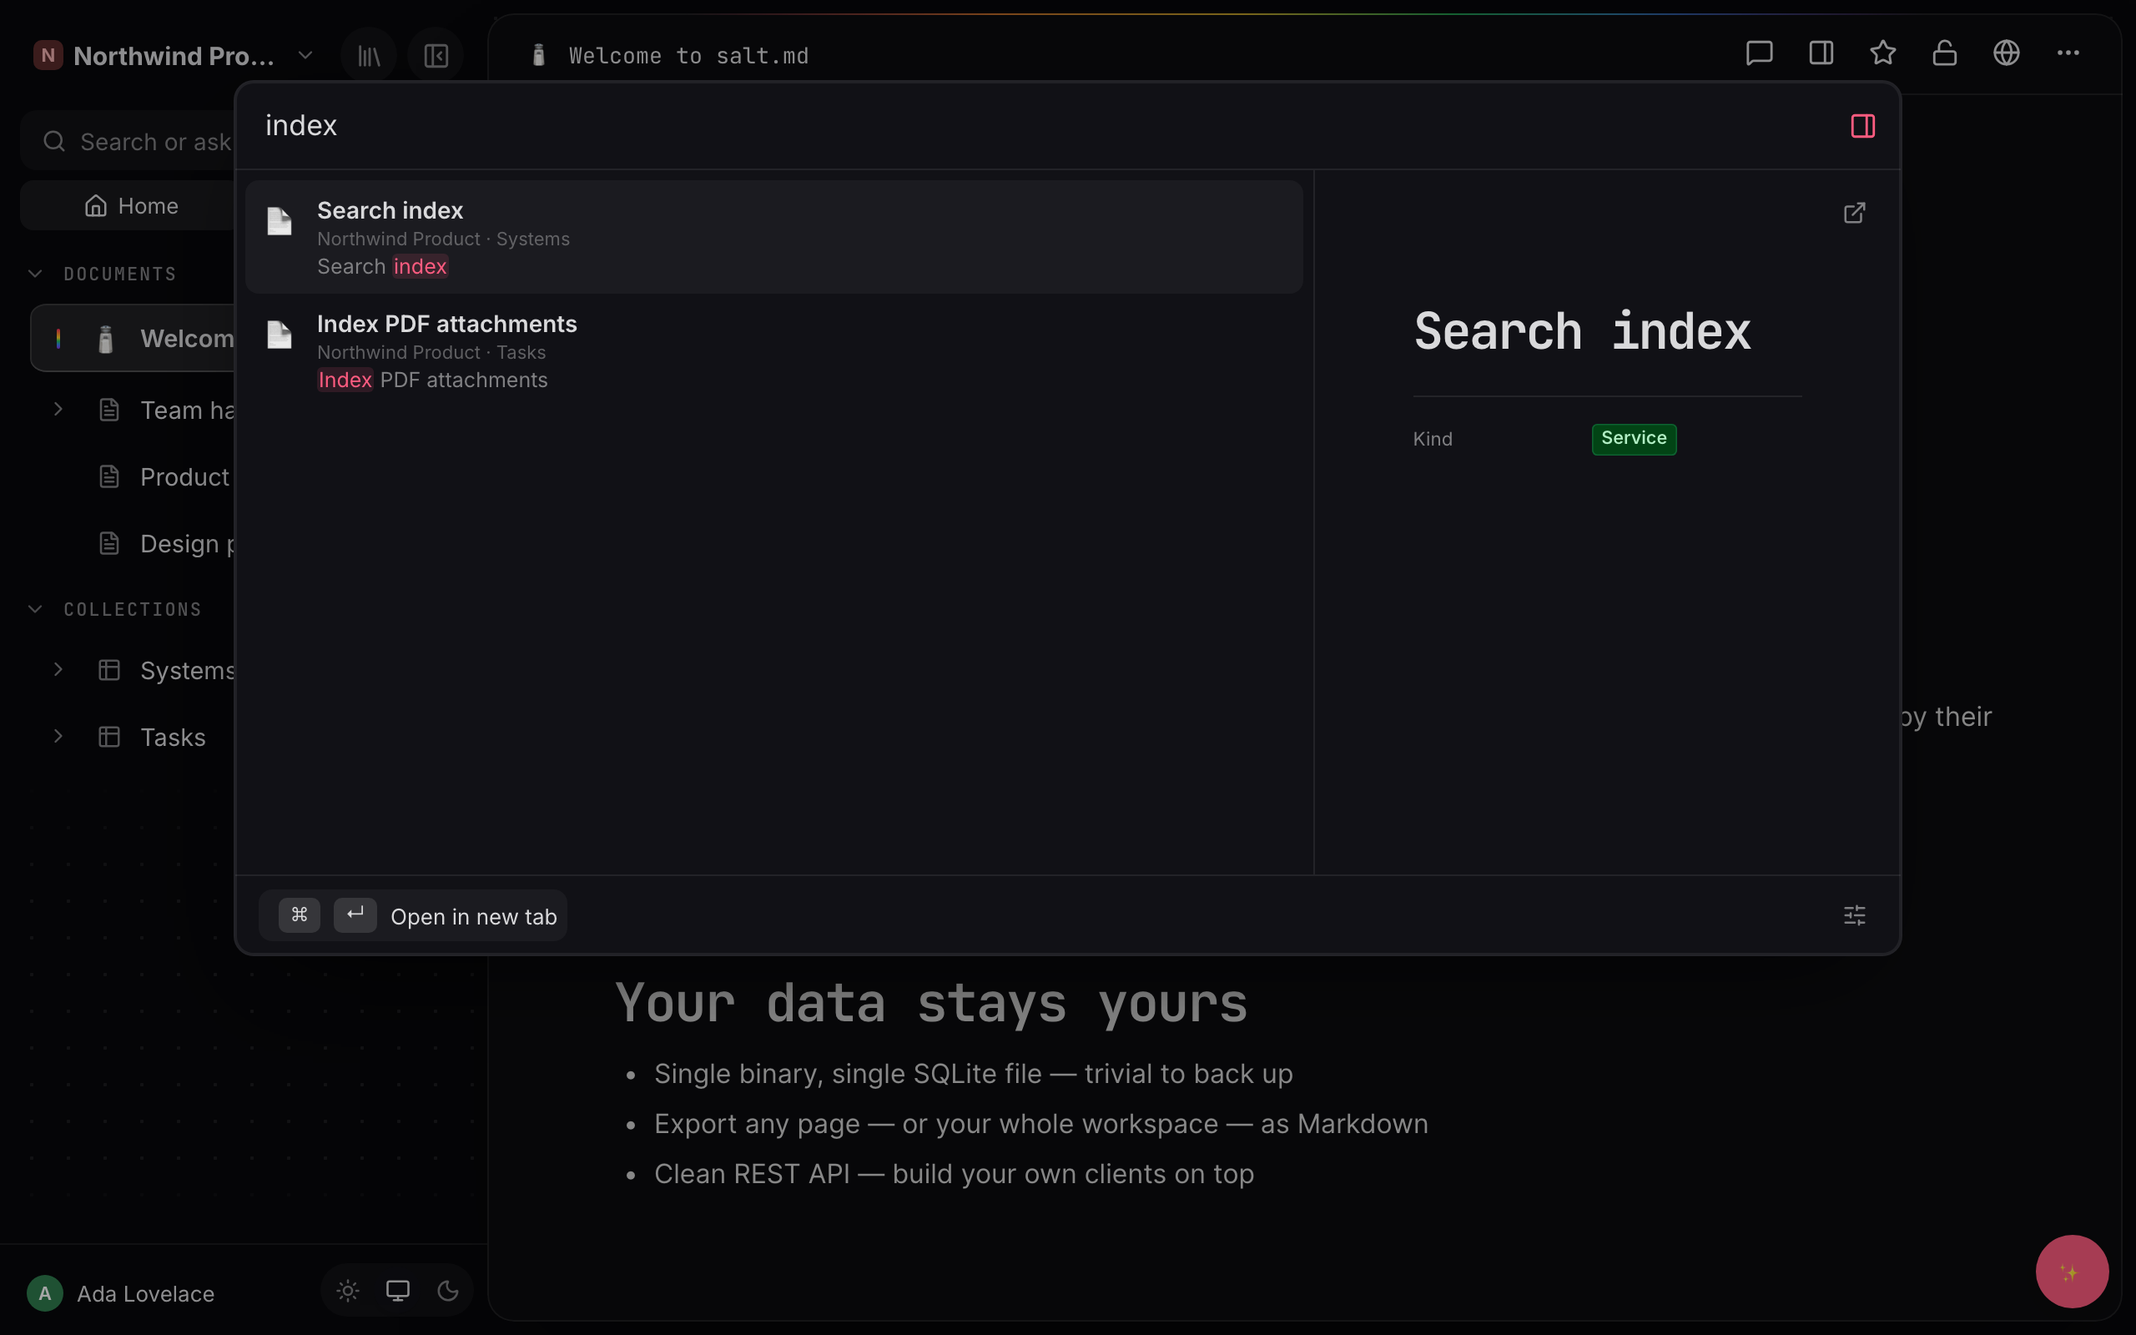
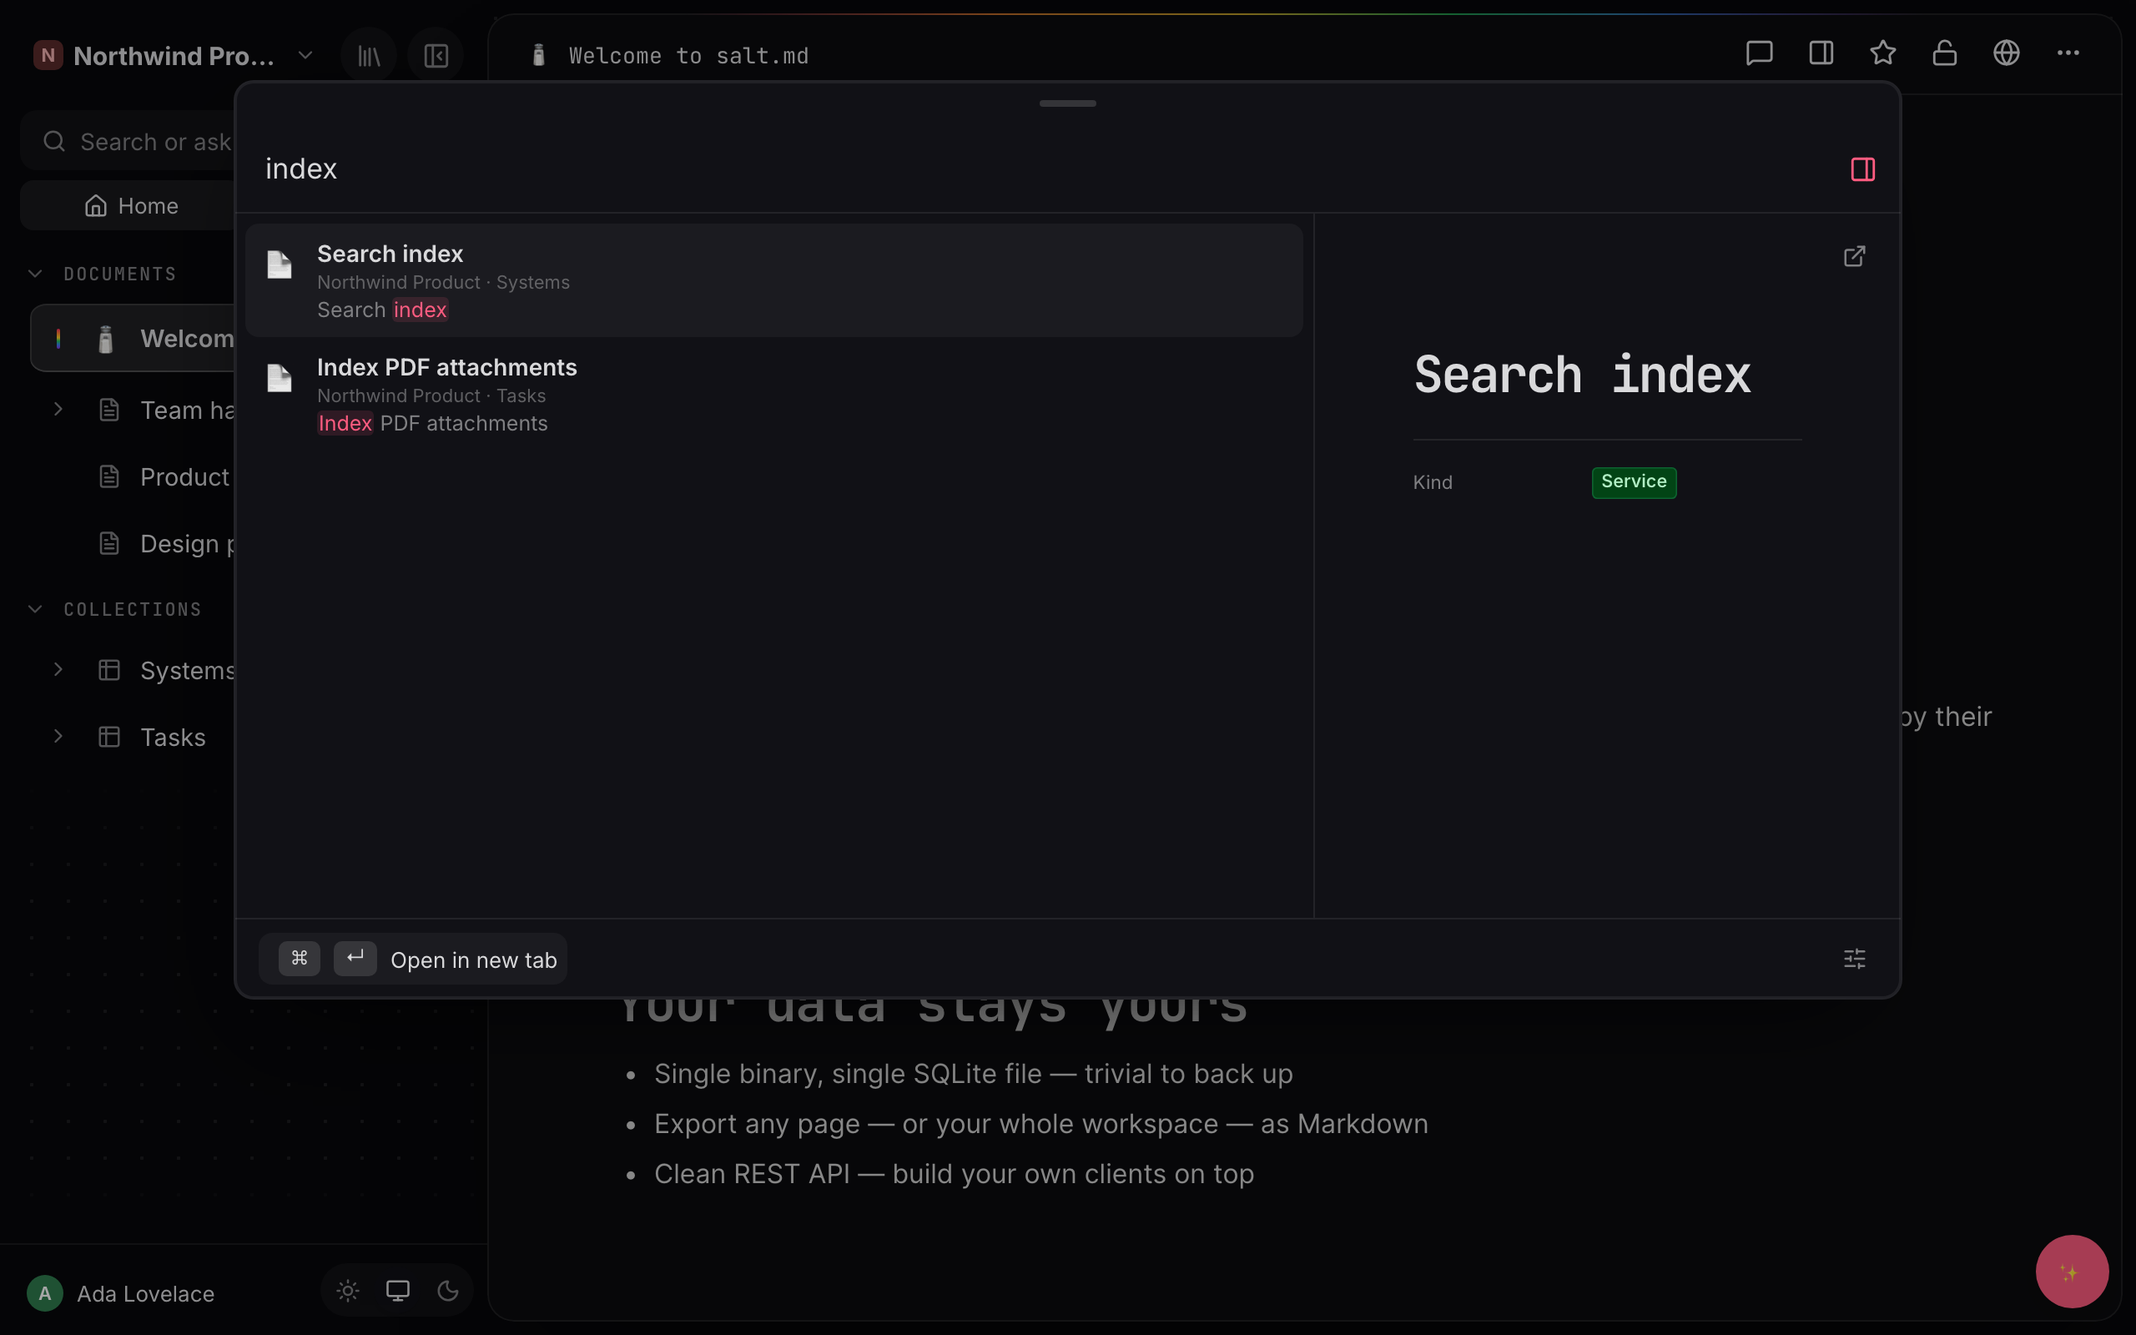
Mobile: sheets close with a swipe down from their handle
Every sheet in the app had a grab bar that did nothing: the one gesture
people try on a phone was the one that did not work, and the only way out was
a small × in a corner.

The drag lives on the handle and nowhere else, on purpose. The browser decides
whether a touch is a scroll or mine before the first pointermove, and
`touch-action` has to be set before the finger lands — taking the drag from
anywhere inside the sheet would mean either cancelling the list's scrolling or
losing the gesture halfway. The handle is the strip that belongs to the sheet
by definition: no scroller under it, no button on it, and it already drew the
bar that invites the drag.

A quarter of the sheet or a flick closes it; anything less springs back. The
sheet translates by its own height plus a margin, so it leaves the screen
rather than fading while still covering the page. The AI panel is hidden
instead of unmounted, so the inline transform is cleared after the close or
the next open would start off-screen.

One component (`SheetGrab`) and one function (`installSheetDrag`) are used by
the tabs sheet, search, the page's ⋯/share/access sheets, the search row menu
and the AI panel, so threshold and feel cannot drift apart between them. The
mobile test drags the tabs handle both ways: 40px stays open, 280px closes.

diff --git a/web/src/sheetSwipe.ts b/web/src/sheetSwipe.ts
@@ -1,0 +1,99 @@
+/** Drag a bottom sheet down to close it, from its grab handle.
+ *
+ *  A sheet on a phone that can only be closed by hitting a small × is the one
+ *  gesture people try first and nothing happens: every iOS and Android sheet
+ *  they have ever used slides away under the finger. This is that gesture.
+ *
+ *  It is deliberately limited to the handle. Taking the drag from anywhere
+ *  inside the sheet would fight the list it contains — the browser has decided
+ *  by the time the pointer moves whether the touch is a scroll or ours, and
+ *  `touch-action` has to be set before the finger lands. The handle is the one
+ *  strip that is ours by definition: no scroller, no buttons, and it already
+ *  draws the bar that invites the gesture.
+ *
+ *  Closing is a translate to the sheet's own height plus a margin, so a sheet
+ *  leaves the screen completely rather than fading while still covering the
+ *  page underneath. */
+export function installSheetDrag(
+  handle: HTMLElement,
+  sheet: HTMLElement,
+  onDismiss: () => void,
+): () => void {
+  let startY = 0;
+  let startTime = 0;
+  let offset = 0;
+  let dragging = false;
+  let closing = false;
+
+  const settle = (transition: string) => {
+    sheet.style.transition = transition;
+    sheet.style.transform = '';
+  };
+
+  const onDown = (e: PointerEvent) => {
+    if (closing || e.button !== 0) return;
+    dragging = true;
+    offset = 0;
+    startY = e.clientY;
+    startTime = performance.now();
+    sheet.style.transition = 'none';
+    handle.setPointerCapture?.(e.pointerId);
+  };
+
+  const onMove = (e: PointerEvent) => {
+    if (!dragging) return;
+    // Upward drags do nothing: a sheet grows upward only by opening further,
+    // and pretending otherwise makes the handle feel disconnected.
+    offset = Math.max(0, e.clientY - startY);
+    sheet.style.transform = `translateY(${offset}px)`;
+  };
+
+  const onUp = (e: PointerEvent) => {
+    if (!dragging) return;
+    dragging = false;
+    handle.releasePointerCapture?.(e.pointerId);
+    const height = sheet.getBoundingClientRect().height;
+    const velocity = offset / Math.max(1, performance.now() - startTime);
+    // A quarter of the sheet, or a flick: the two ways people mean "close".
+    const shouldClose = offset > Math.max(72, height * 0.25) || (offset > 24 && velocity > 0.55);
+    if (shouldClose) {
+      closing = true;
+      sheet.style.transition = 'transform 180ms ease-in';
+      sheet.style.transform = `translateY(${height + 24}px)`;
+      window.setTimeout(() => {
+        onDismiss();
+        // The AI panel is hidden rather than unmounted, so its inline transform
+        // would survive the close and put it off-screen on the next open.
+        requestAnimationFrame(() => {
+          sheet.style.transition = '';
+          sheet.style.transform = '';
+        });
+      }, 170);
+      return;
+    }
+    settle('transform 200ms cubic-bezier(0.16, 1, 0.3, 1)');
+    window.setTimeout(() => {
+      if (!dragging) sheet.style.transition = '';
+    }, 220);
+  };
+
+  const onCancel = () => {
+    if (!dragging) return;
+    dragging = false;
+    settle('transform 160ms ease-out');
+    window.setTimeout(() => {
+      if (!dragging) sheet.style.transition = '';
+    }, 180);
+  };
+
+  handle.addEventListener('pointerdown', onDown);
+  handle.addEventListener('pointermove', onMove);
+  handle.addEventListener('pointerup', onUp);
+  handle.addEventListener('pointercancel', onCancel);
+  return () => {
+    handle.removeEventListener('pointerdown', onDown);
+    handle.removeEventListener('pointermove', onMove);
+    handle.removeEventListener('pointerup', onUp);
+    handle.removeEventListener('pointercancel', onCancel);
+  };
+}

diff --git a/web/src/mobile.css b/web/src/mobile.css
@@ -154,14 +154,30 @@
   }
 }
 
-/* The bar every phone sheet has, for the only gesture people try on one. */
+/* The bar every phone sheet has, and the handle the drag starts from: a 26px
+   strip with the bar drawn inside it, `touch-action: none` so the browser
+   gives the gesture to us instead of rubber-banding the page. */
 .sheet-grab {
+  display: flex;
+  align-items: center;
+  justify-content: center;
+  height: 26px;
+  flex: none;
+  touch-action: none;
+  cursor: grab;
+}
+
+.sheet-grab > span {
   width: 34px;
   height: 4px;
-  margin: 6px auto 8px;
   border-radius: 2px;
   background: var(--border-strong);
-  flex: none;
+  pointer-events: none;
+}
+
+/* A sheet being dragged must not animate its own transition. */
+.sheet-drag:active {
+  cursor: grabbing;
 }
 
 .tabs-sheet-head {
@@ -483,16 +499,6 @@
     box-shadow: 0 -24px 48px -28px rgba(0, 0, 0, 0.5);
   }
 
-  .search-row-menu::before {
-    content: '';
-    flex: none;
-    width: 34px;
-    height: 4px;
-    margin: 6px auto 8px;
-    border-radius: 2px;
-    background: var(--border-strong);
-  }
-
   .search-row-backdrop {
     background: rgba(0, 0, 0, 0.38);
   }
@@ -620,20 +626,6 @@
     z-index: 320;
   }
 
-  /* The grab bar, drawn rather than an element: these menus are written in six
-     places and none of them should have to remember it. */
-  .overflow-menu::before,
-  .share-menu::before,
-  .access-menu::before {
-    content: '';
-    display: block;
-    width: 34px;
-    height: 4px;
-    margin: 6px auto 10px;
-    border-radius: 2px;
-    background: var(--border-strong);
-  }
-
   .overflow-menu button,
   .share-menu button,
   .access-menu button {
@@ -680,17 +672,6 @@
     display: flex;
     flex-direction: column;
     overflow: hidden;
-  }
-
-  /* The grab bar every other phone sheet in the app has. */
-  .search-modal::before {
-    content: '';
-    flex: none;
-    width: 34px;
-    height: 4px;
-    margin: 8px auto 2px;
-    border-radius: 2px;
-    background: var(--border-strong);
   }
 
   .search-modal .search-body {
@@ -873,5 +854,16 @@
      the bar instead of hiding under the thumb. */
   body.mobile-editing .page-body {
     padding-bottom: 64px;
+  }
+}
+
+/* --- handles are a phone thing -------------------------------------------- */
+
+/* The page menus and the AI panel are popovers on a desktop: they hang off a
+   button and have no bottom edge to drag, so no handle either. */
+@media (min-width: 769px) {
+  .menu .sheet-grab,
+  .ai-panel .sheet-grab {
+    display: none;
   }
 }

diff --git a/web/src/components/Editor.tsx b/web/src/components/Editor.tsx
@@ -42,6 +42,7 @@ import PropertyValue from './PropertyValue';
 import { saltSchema } from '../pageLink';
 import AnchoredMenu from './AnchoredMenu';
 import SheetBackdrop from './SheetBackdrop';
+import SheetGrab from './SheetGrab';
 import MobileEditorBar from './MobileEditorBar';
 import AiEmptyLine from './AiEmptyLine';
 import IconPicker from './IconPicker';
@@ -1705,6 +1706,10 @@ function PageHeader({
     return chain;
   }, [pagesById, pageId, page]);
 
+  // The page's ⋯ and share sheets on a phone: their handles drag them away.
+  const shareSheetRef = useRef<HTMLDivElement>(null);
+  const overflowSheetRef = useRef<HTMLDivElement>(null);
+
   const inheritedAccess = useMemo(() => {
     for (let i = 0; i < breadcrumbs.length - 1; i++) {
       const a = breadcrumbs[i];
@@ -1894,7 +1899,8 @@ function PageHeader({
             {shareOpen && (
               <>
                 <SheetBackdrop onDismiss={() => setShareOpen(false)} />
-                <div className="menu share-menu">
+                <div className="menu share-menu" ref={shareSheetRef}>
+                  <SheetGrab sheet={shareSheetRef} onDismiss={() => setShareOpen(false)} />
                 <div className="share-hint">{isCollection ? t('Anyone with this link sees this collection (read-only).') : t('Anyone with this link can view this page (read-only).')}</div>
                 {!readShared && !displayUrl ? (
                   <>
@@ -2025,7 +2031,8 @@ function PageHeader({
             {overflowOpen && (
               <>
                 <SheetBackdrop onDismiss={() => setOverflowOpen(false)} />
-                <div className="menu overflow-menu">
+                <div className="menu overflow-menu" ref={overflowSheetRef}>
+                  <SheetGrab sheet={overflowSheetRef} onDismiss={() => setOverflowOpen(false)} />
                 <>
                   <div className="menu-row" role="group" aria-label={t('Undo and redo')}>
                     <button className="menu-item" disabled={!undoCtl.canUndo} onClick={fireUndo}>

diff --git a/web/src/components/SearchModal.tsx b/web/src/components/SearchModal.tsx
@@ -3,6 +3,7 @@ import { ExternalLink, MoreHorizontal, PanelRight, Pin, SlidersHorizontal, X } f
 import { api } from '../api';
 import type { PageMeta, SearchResult, User } from '../types';
 import Portal from './Portal';
+import SheetGrab from './SheetGrab';
 import Editor from './Editor';
 import { PageIcon } from '../pageIcon';
 import { useExclusiveModal } from '../modal';
@@ -233,6 +234,8 @@ export default function SearchModal({
   // and preview clicks alike. Modified clicks keep their meaning.
   const openPageId = (id: string) => (previewNewTab ? (onOpenInNewTab ?? onNavigate)(id) : onNavigate(id));
 
+  const sheetRef = useRef<HTMLDivElement>(null);
+  const rowMenuRef = useRef<HTMLDivElement>(null);
   // The per-result tab menu: which page, and where to put it.
   const [rowMenu, setRowMenu] = useState<{ id: string; x: number; y: number } | null>(null);
   const openRowMenu = (e: React.MouseEvent, id: string) => {
@@ -420,7 +423,14 @@ export default function SearchModal({
         if (e.target === e.currentTarget) onClose();
       }}
     >
-      <div className={'search-modal' + (showPreview ? ' has-preview' : '')} onKeyDown={onKey}>
+      <div
+        className={'search-modal' + (showPreview ? ' has-preview' : '')}
+        role="dialog"
+        aria-label={t('Search')}
+        ref={sheetRef}
+        onKeyDown={onKey}
+      >
+        <SheetGrab sheet={sheetRef} onDismiss={onClose} />
         <div className="search-topbar">
           <input
             ref={inputRef}
@@ -645,7 +655,9 @@ export default function SearchModal({
               className="menu search-row-menu"
               style={{ position: 'fixed', left: rowMenu.x, top: rowMenu.y, right: 'auto' }}
               role="menu"
+              ref={rowMenuRef}
             >
+              <SheetGrab sheet={rowMenuRef} onDismiss={close} />
               <button
                 type="button"
                 role="menuitem"

diff --git a/web/src/components/AiChatPanel.tsx b/web/src/components/AiChatPanel.tsx
@@ -7,6 +7,7 @@ import AiErrorCard from './AiErrorCard';
 import AiMarkdown from './AiMarkdown';
 import AiApprovalSelect, { useApprovalMode } from './AiApprovalSelect';
 import { PageIcon } from '../pageIcon';
+import SheetGrab from './SheetGrab';
 import { FileText, Table2 } from 'lucide-react';
 import type { AiThread } from './AiThreadList';
 import type { PageMeta } from '../types';
@@ -33,6 +34,7 @@ export default function AiChatPanel(props: {
   onOpenSidebar?: () => void;
   hidden?: boolean;
 }) {
+  const panelRef = useRef<HTMLDivElement>(null);
   const [threadId, setThreadId] = useState<string | null>(props.threadId ?? null);
   const [messages, setMessages] = useState<Msg[]>([]);
   const [steps, setSteps] = useState<AiStep[]>([]);
@@ -537,7 +539,8 @@ export default function AiChatPanel(props: {
   const traceAt = !agentBusy && messages.length > 0 && messages[messages.length - 1].role !== 'user' ? messages.length - 1 : messages.length;
 
   return (
-    <div className="ai-panel" style={props.hidden ? { display: 'none' } : undefined}>
+    <div className="ai-panel" ref={panelRef} style={props.hidden ? { display: 'none' } : undefined}>
+      <SheetGrab sheet={panelRef} onDismiss={props.onClose} />
       <div className="ai-panel-head">
         <div style={{ position: 'relative', display: 'inline-flex', alignItems: 'center' }} ref={threadMenuRef}>
           <button

diff --git a/web/src/components/TabsSheet.tsx b/web/src/components/TabsSheet.tsx
@@ -1,3 +1,4 @@
+import { useRef } from 'react';
 import { ArrowLeft, ArrowRight, FileText, Plus, Table2, X } from 'lucide-react';
 import { PageIcon } from '../pageIcon';
 import type { PageMeta } from '../types';
@@ -5,6 +6,7 @@ import type { ArchivedTab } from '../tabAging';
 import { t } from '../i18n';
 import { goBack, goForward, useNavArrows } from '../navStack';
 import Portal from './Portal';
+import SheetGrab from './SheetGrab';
 
 /** Open documents as a sheet of cards, for the phone.
  *
@@ -45,12 +47,13 @@ export default function TabsSheet({
   onDismiss: () => void;
 }) {
   const nav = useNavArrows();
+  const sheetRef = useRef<HTMLDivElement>(null);
   if (!open) return null;
   return (
     <Portal>
       <div className="fs-backdrop tabs-sheet-backdrop" onClick={onDismiss} />
-      <div className="tabs-sheet" role="dialog" aria-label={t('Tabs')}>
-        <div className="sheet-grab" aria-hidden="true" />
+      <div className="tabs-sheet" role="dialog" aria-label={t('Tabs')} ref={sheetRef}>
+        <SheetGrab sheet={sheetRef} onDismiss={onDismiss} />
         <div className="tabs-sheet-head">
           <span className="tabs-sheet-title">{t('Tabs')}</span>
           <button

diff --git a/web/src/components/PageShares.tsx b/web/src/components/PageShares.tsx
@@ -1,9 +1,10 @@
-import { useEffect, useState } from 'react';
+import { useEffect, useRef, useState } from 'react';
 import { Lock } from 'lucide-react';
 import { api } from '../api';
 import { toast } from '../toast';
 import { isOfflineError, isTempId, savePageUpdate } from '../outbox';
 import { t } from '../i18n';
+import SheetGrab from './SheetGrab';
 
 type Access = 'view' | 'edit';
 type Visibility = 'workspace' | 'private' | 'restricted';
@@ -119,8 +120,10 @@ export default function PageShares({
   const granted = new Set((shares ?? []).map((s) => s.userId));
   const candidates = members.filter((m) => !granted.has(m.userId));
 
+  const menuRef = useRef<HTMLDivElement>(null);
   return (
-    <div className="menu access-menu" role="dialog" aria-label={t('Page access')}>
+    <div className="menu access-menu" role="dialog" aria-label={t('Page access')} ref={menuRef}>
+      <SheetGrab sheet={menuRef} onDismiss={onClose} />
       <h2 className="access-title">{t('Page access')}</h2>
       {inheritedFrom && (
         <div className="access-inherited-hint">

diff --git a/web/src/components/SheetGrab.tsx b/web/src/components/SheetGrab.tsx
@@ -1,0 +1,27 @@
+import { useEffect, useRef, type RefObject } from 'react';
+import { installSheetDrag } from '../sheetSwipe';
+
+/** The bar at the top of a bottom sheet, which is also the handle that closes
+ *  it: drag it down far enough and the sheet follows the finger off the screen.
+ *
+ *  Every sheet in the app uses this one, so the gesture, its threshold and the
+ *  way it springs back cannot drift apart from sheet to sheet. On a desktop the
+ *  bar is hidden — a popover hanging off an icon has no bottom edge to drag. */
+export default function SheetGrab({
+  sheet,
+  onDismiss,
+}: {
+  sheet: RefObject<HTMLElement | null>;
+  onDismiss: () => void;
+}) {
+  const handle = useRef<HTMLDivElement>(null);
+  useEffect(() => {
+    if (!handle.current || !sheet.current) return;
+    return installSheetDrag(handle.current, sheet.current, onDismiss);
+  }, [sheet, onDismiss]);
+  return (
+    <div className="sheet-grab sheet-drag" ref={handle} aria-hidden="true">
+      <span />
+    </div>
+  );
+}
